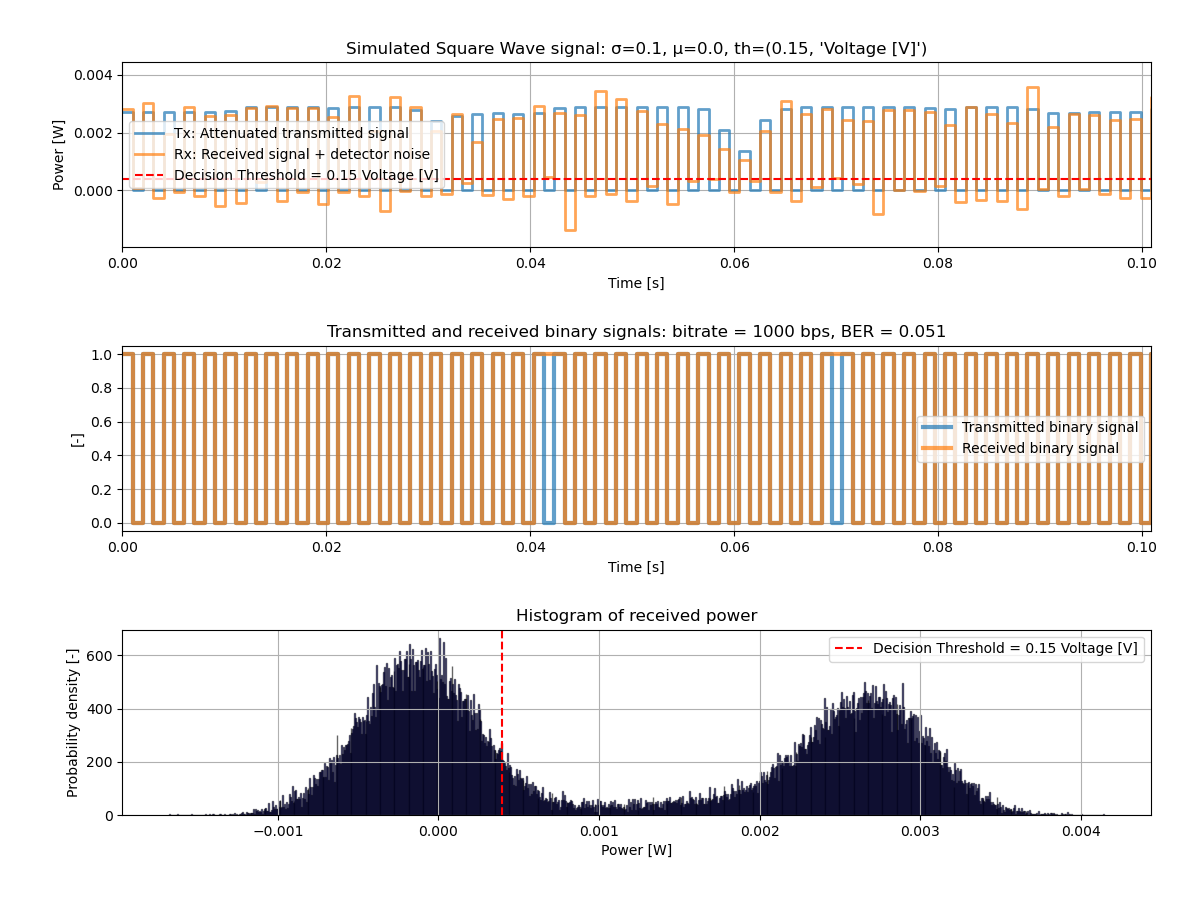
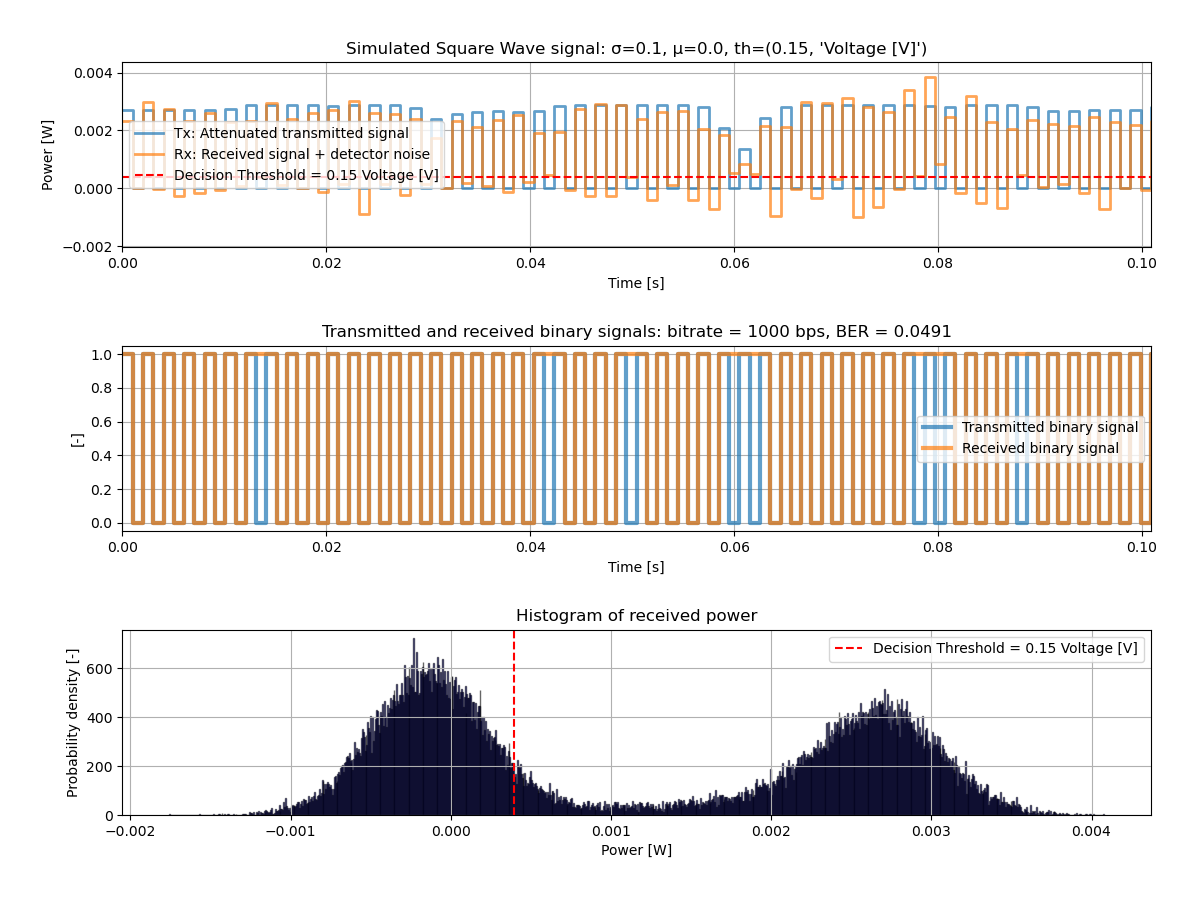
.

diff --git a/Simulation files/simulation_single.py b/Simulation files/simulation_single.py
@@ -28,7 +28,7 @@ link_budget_des = optical_link_design.compute_link_budget()
 # #-----------------------------------------------
 L_c = 10 ** (link_budget_des["Total losses const [db]"] / 10)
 signal_sim = Signal_simulation(config, file_name, "inputs_design", "inputs_signal", L_c)     # Initialse time signal simulation class    
-# result_sim1 = signal_sim.generate_time_sig_square(std, mean)
+result_sim1 = signal_sim.generate_time_sig_square(std, mean)
 x = signal_sim.pdf2ber_plot(0.1, 0.5)
 
 
